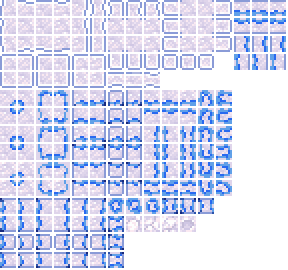
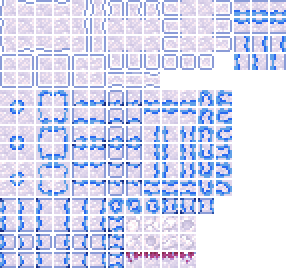
Extra salt tile frames

Changed region(s): [[0.4375, 0.8593, 0.6875, 1.0]]

diff --git a/Content/SaltFlats/Tiles/Salt/SaltBlockDull.cs b/Content/SaltFlats/Tiles/Salt/SaltBlockDull.cs
@@ -19,13 +19,28 @@ public class SaltBlockDull : SaltBlock
 
 	public override void RandomUpdate(int i, int j)
 	{
-		if (Framing.GetTileSafely(i, j - 1).LiquidAmount < 20)
+		Tile above = Framing.GetTileSafely(i, j - 1);
+
+		if (above.LiquidAmount < 20)
 		{
 			if (Main.rand.NextBool(4))
 				Placer.Check(i, j - 1, ModContent.TileType<Saltwort>()).IsClear().Place().Send();
 
 			if (Main.rand.NextBool(8))
 				Placer.Check(i, j - 1, ModContent.TileType<SaltwortTall>()).IsClear().Place().Send();
+
+			if (Main.rand.NextBool(4) && (above.HasTileType(ModContent.TileType<Saltwort>()) || above.HasTileType(ModContent.TileType<SaltwortTall>())))
+			{
+				Tile tile = Main.tile[i, j];
+				Point16 result = new(126, 252);
+				int random = Main.rand.Next(4);
+
+				tile.TileFrameX = (short)(result.X + 18 * random);
+				tile.TileFrameY = result.Y;
+
+				if (Main.netMode != NetmodeID.SinglePlayer)
+					NetMessage.SendTileSquare(-1, i, j);
+			}
 		}
 	}
 
@@ -49,15 +64,16 @@ public class SaltBlockDull : SaltBlock
 
 	public override void PostTileFrame(int i, int j, int up, int down, int left, int right, int upLeft, int upRight, int downLeft, int downRight)
 	{
-		var t = Main.tile[i, j];
+		const int loop = 4; //The number of horizontal frames
+		Tile tile = Main.tile[i, j];
 
-		if (Main.rand.NextBool(15) && t.TileFrameX is 18 or 36 or 54 && t.TileFrameY is 18) //Plain center frames
+		if (Main.rand.NextBool(10) && tile.TileFrameX is 18 or 36 or 54 && tile.TileFrameY is 18) //Plain center frames
 		{
 			Point16 result = new(126, 216);
-			int random = Main.rand.Next(4);
+			int random = Main.rand.Next(8);
 
-			t.TileFrameX = (short)(result.X + 18 * random);
-			t.TileFrameY = result.Y;
+			tile.TileFrameX = (short)(result.X + 18 * (random % loop));
+			tile.TileFrameY = (short)(result.Y + 18 * (random / loop));
 		}
 	}
 

diff --git a/Common/WorldGeneration/Microbiomes/Biomes/Ziggurat/ZigguratBiome.Generation.cs b/Common/WorldGeneration/Microbiomes/Biomes/Ziggurat/ZigguratBiome.Generation.cs
@@ -289,12 +289,6 @@ public partial class ZigguratBiome : Microbiome
 
 	private static void AddNeutralDecorations(List<GenRoom> rooms)
 	{
-		WeightedRandom<int> potWeight = new();
-		potWeight.Add(ModContent.TileType<BronzePots>());
-		potWeight.Add(ModContent.TileType<LapisPots>(), 0.1f);
-		potWeight.Add(ModContent.TileType<BiomePots>(), 0.2f);
-		potWeight.Add(TileID.Pots);
-
 		int maxChestCount = Main.maxTilesX / 2100;
 		PriorityQueue<Point16, float> furniturePositions = new();
 
